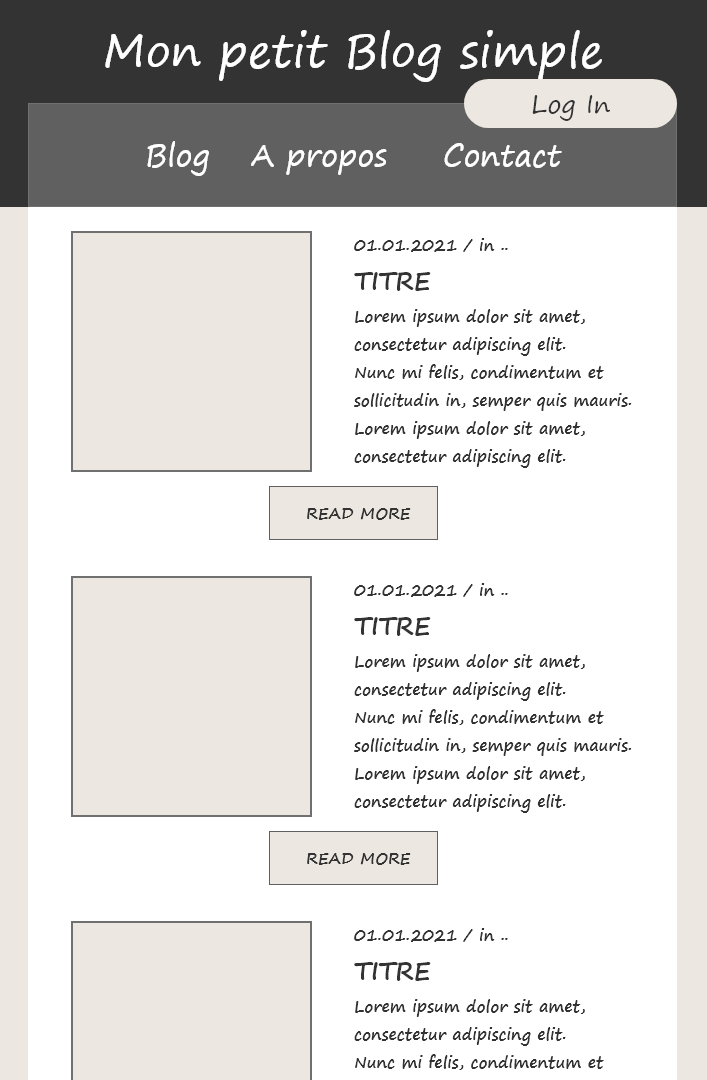
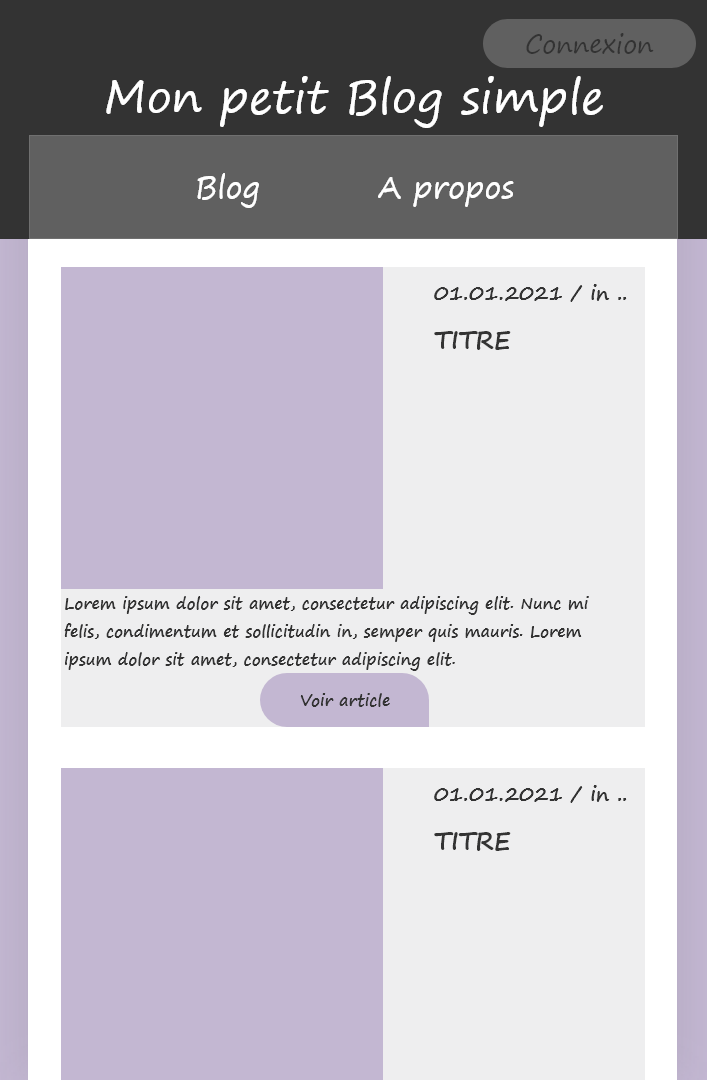
Add + shema + delete commentary option + add commentary option Modif maquette mise a jour

diff --git a/View/Styles/communs.css b/View/Styles/communs.css
@@ -10,7 +10,7 @@ body {
 
 /* Colors */
 body, .read_more_button, .send_commentary_button {
-    background-color: #889aba;
+    background-color: #C3B7D2;
 }
 
 #login_logout_button, #new_article_button, .read_more_button, .send_commentary_button {

diff --git a/View/blog_post.php b/View/blog_post.php
@@ -13,6 +13,10 @@
                     echo "<div id='error_problem' class='green'>Article modifier!</div>";
                 } else if ($_GET['error'] === '2') {
                     echo '<div id="error_problem" class="red">Un problème est survenu!</div>';
+                } else if ($_GET['error'] === '3') {
+                    echo '<div id="error_problem" class="green">Commentaire envoyer!</div>';
+                }else if ($_GET['error'] === '4') {
+                    echo '<div id="error_problem" class="green">Commentaire supprimer!</div>';
                 }
             }
         }
@@ -36,12 +40,12 @@
                     <div class='one_blog_post_button'>
                 <?php
                     if (isset ($_SESSION['username'], $_SESSION['id'])){
-                        echo "
-                        <form method='post' name='add_commentary'>
-                            <input type='text'>
+                ?>
+                        <form method='post' name='add_commentary' action="../new_commentary.php?error=0&id=<?php echo $_GET['id'] ?>">
+                            <input type='text' name="commentary">
                             <button type='submit' class='send_commentary_button'>Envoyer</button>
                         </form>
-                    ";
+                <?php
                     }
                 ?>
                     </div>
@@ -54,11 +58,19 @@
 
                         foreach ($all_message as $message) {
                             $user = new UserController();
-                            $user = $user->searchUser($message->getUser());
-                            echo "<div class='commentary_div'>
-                                    <div>" . $user->getUsername() . "</div>
-                                    <div class='commentary_content'>". $message->getContent() ."</div>
-                                </div>";
+                            $user = $user->searchUser($message->getUser()); ?>
+                                <div class='commentary_div'>
+                                    <?php
+                                    if ($_SESSION['role'] == 1 ){
+                                        echo "<button class='option_button read_more_button red' onclick='document.location.href=".
+                                            '"../commentary_delete.php?error=0&id=' . $_GET['id'] . '&idcomment='. $message->getId() .'"' .
+                                            "'>Supprimer <i class='fas fa-times'></i></button>";
+                                    }
+                                    ?>
+                                    <div> <?=$user->getUsername()?></div>
+                                    <div class='commentary_content'><?=$message->getContent()?></div>
+                                </div>
+                    <?php
                         }
                     ?>
                 </div>

diff --git a/Controller/MessageController.php b/Controller/MessageController.php
@@ -21,4 +21,22 @@ class MessageController{
         return $array;
     }
 
+    /*
+     * Add a new message for post in table commentary
+     */
+    public function addMessage($user_fk, $message, $post_fk) :bool
+    {
+        $stmt = DB::getInstance()->prepare("INSERT INTO commentary (user_fk, content, post_fk) VALUES ('$user_fk', '$message', '$post_fk')");
+        return $stmt->execute();
+    }
+
+    /*
+     * Delete a message for post in table commentary
+     */
+    public function deleteMessage($id) :bool
+    {
+        $stmt = DB::getInstance()->prepare("DELETE FROM commentary  WHERE id = '$id'");
+        return $stmt->execute();
+    }
+
 }

diff --git a/new_commentary.php b/new_commentary.php
@@ -1,0 +1,17 @@
+<?php
+require_once "require.php";
+
+$id = $_GET['id'];
+$user = $_SESSION['id'];
+
+if(isset($_GET['error'], $_POST['commentary']) && $_GET['error'] === "0") {
+    $message = strip_tags(trim($_POST['commentary']));
+
+    $new_message = new MessageController();
+    $new_message = $new_message->addMessage($user, $message ,$id);
+
+    header("location: ./View/blog_post.php?error=1&id=$id");
+
+} else {
+    header("location: ./View/blog_post.php?error=2&id=$id");
+}

diff --git a/commentary_delete.php b/commentary_delete.php
@@ -1,0 +1,15 @@
+<?php
+require_once "require.php";
+
+$id = $_GET['id'];
+
+if(isset($_GET['error'], $_GET['idcomment']) && $_GET['error'] === "0") {
+
+    $del_commentary = new MessageController();
+    $del_commentary = $del_commentary->deleteMessage($_GET['idcomment']);
+
+    header("location: ./View/blog_post.php?error=4&id=$id");
+
+} else {
+    header("location: ./View/blog_post.php?error=2&id=$id");
+}
